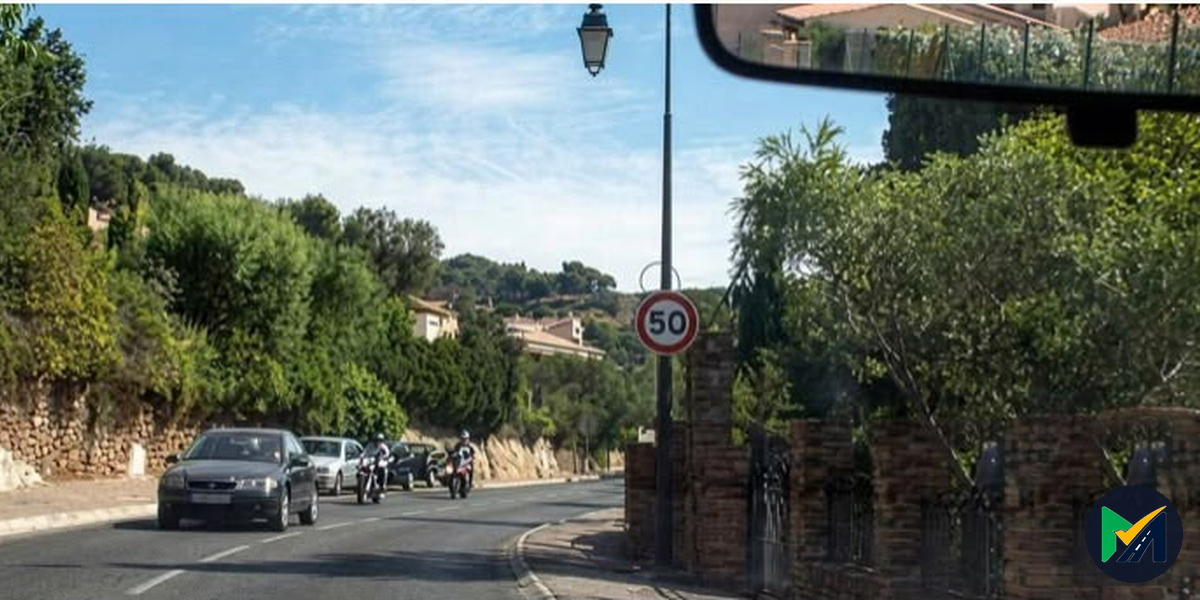
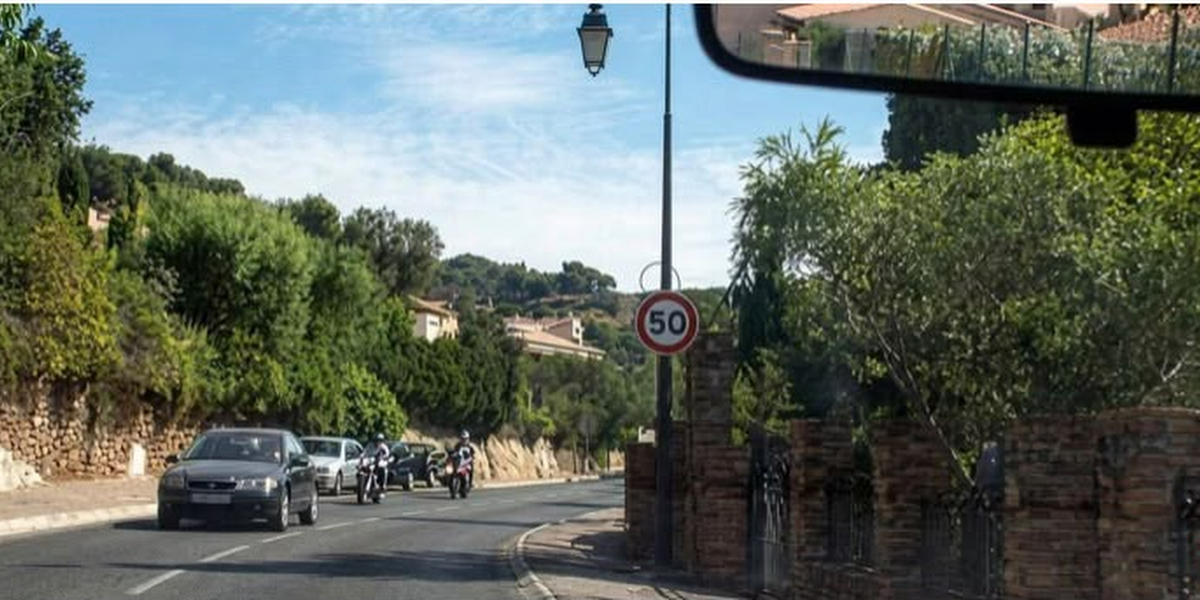
Ajouter les images chapitre 11 (Q13–34) sans filigrane.
Branche les nouvelles situations en 2:1 dans les banques et catalogues, et bump le cache média.

Changed region(s): [[0.8633, 0.72, 1.0, 0.99]]

diff --git a/src/data/codeRoute/imageUrls.ts b/src/data/codeRoute/imageUrls.ts
@@ -99,6 +99,28 @@ import img11_9 from '../../assets/code-images/chapitre-11/9.png?url'
 import img11_10 from '../../assets/code-images/chapitre-11/10.png?url'
 import img11_11 from '../../assets/code-images/chapitre-11/11.png?url'
 import img11_12 from '../../assets/code-images/chapitre-11/12.png?url'
+import img11_34 from '../../assets/code-images/chapitre-11/34.png?url'
+import img11_33 from '../../assets/code-images/chapitre-11/33.png?url'
+import img11_32 from '../../assets/code-images/chapitre-11/32.png?url'
+import img11_31 from '../../assets/code-images/chapitre-11/31.png?url'
+import img11_30 from '../../assets/code-images/chapitre-11/30.png?url'
+import img11_29 from '../../assets/code-images/chapitre-11/29.png?url'
+import img11_28 from '../../assets/code-images/chapitre-11/28.png?url'
+import img11_27 from '../../assets/code-images/chapitre-11/27.png?url'
+import img11_26 from '../../assets/code-images/chapitre-11/26.png?url'
+import img11_25 from '../../assets/code-images/chapitre-11/25.png?url'
+import img11_24 from '../../assets/code-images/chapitre-11/24.png?url'
+import img11_23 from '../../assets/code-images/chapitre-11/23.png?url'
+import img11_22 from '../../assets/code-images/chapitre-11/22.png?url'
+import img11_21 from '../../assets/code-images/chapitre-11/21.png?url'
+import img11_20 from '../../assets/code-images/chapitre-11/20.png?url'
+import img11_19 from '../../assets/code-images/chapitre-11/19.png?url'
+import img11_18 from '../../assets/code-images/chapitre-11/18.png?url'
+import img11_17 from '../../assets/code-images/chapitre-11/17.png?url'
+import img11_16 from '../../assets/code-images/chapitre-11/16.png?url'
+import img11_15 from '../../assets/code-images/chapitre-11/15.png?url'
+import img11_14 from '../../assets/code-images/chapitre-11/14.png?url'
+import img11_13 from '../../assets/code-images/chapitre-11/13.png?url'
 import img15_1 from '../../assets/code-images/chapitre-15/1.png?url'
 import img15_2 from '../../assets/code-images/chapitre-15/2.png?url'
 import img15_3 from '../../assets/code-images/chapitre-15/3.png?url'
@@ -223,6 +245,28 @@ const MAP: Record<number, Record<number, string>> = {
     10: img11_10,
     11: img11_11,
     12: img11_12,
+    13: img11_13,
+    14: img11_14,
+    15: img11_15,
+    16: img11_16,
+    17: img11_17,
+    18: img11_18,
+    19: img11_19,
+    20: img11_20,
+    21: img11_21,
+    22: img11_22,
+    23: img11_23,
+    24: img11_24,
+    25: img11_25,
+    26: img11_26,
+    27: img11_27,
+    28: img11_28,
+    29: img11_29,
+    30: img11_30,
+    31: img11_31,
+    32: img11_32,
+    33: img11_33,
+    34: img11_34,
   },
   15: {
     1: img15_1,

diff --git a/mobile/src/data/codeRoute/banks.ts b/mobile/src/data/codeRoute/banks.ts
@@ -623,28 +623,28 @@ const CHAPITRE_11: LocalQuestion[] = [
   question(11, 10, ['A', 'B'], [], [10]),
   question(11, 11, ['A', 'B'], [], [11]),
   question(11, 12, ['A', 'B', 'C', 'D'], [], [12]),
-  question(11, 13, ['A', 'B'], []),
-  question(11, 14, ['A', 'B', 'C', 'D'], []),
-  question(11, 15, ['A', 'B', 'C', 'D'], []),
-  question(11, 16, ['A', 'B'], []),
-  question(11, 17, ['A', 'B'], []),
-  question(11, 18, ['A', 'B'], []),
-  question(11, 19, ['A', 'B'], []),
-  question(11, 20, ['A', 'B'], []),
-  question(11, 21, ['A', 'B', 'C', 'D'], []),
-  question(11, 22, ['A', 'B', 'C'], []),
-  question(11, 23, ['A', 'B', 'C', 'D'], []),
-  question(11, 24, ['A', 'B'], []),
-  question(11, 25, ['A', 'B', 'C', 'D'], ['A', 'D']),
-  question(11, 26, ['A', 'B', 'C', 'D'], []),
-  question(11, 27, ['A', 'B'], []),
-  question(11, 28, ['A', 'B', 'C'], []),
-  question(11, 29, ['A', 'B', 'C'], []),
-  question(11, 30, ['A', 'B'], []),
-  question(11, 31, ['A', 'B', 'C'], ['B']),
-  question(11, 32, ['A', 'B'], []),
-  question(11, 33, ['A', 'B'], []),
-  question(11, 34, ['A', 'B'], []),
+  question(11, 13, ['A', 'B'], [], [13]),
+  question(11, 14, ['A', 'B', 'C', 'D'], [], [14]),
+  question(11, 15, ['A', 'B', 'C', 'D'], [], [15]),
+  question(11, 16, ['A', 'B'], [], [16]),
+  question(11, 17, ['A', 'B'], [], [17]),
+  question(11, 18, ['A', 'B'], [], [18]),
+  question(11, 19, ['A', 'B'], [], [19]),
+  question(11, 20, ['A', 'B'], [], [20]),
+  question(11, 21, ['A', 'B', 'C', 'D'], [], [21]),
+  question(11, 22, ['A', 'B', 'C'], [], [22]),
+  question(11, 23, ['A', 'B', 'C', 'D'], [], [23]),
+  question(11, 24, ['A', 'B'], [], [24]),
+  question(11, 25, ['A', 'B', 'C', 'D'], ['A', 'D'], [25]),
+  question(11, 26, ['A', 'B', 'C', 'D'], [], [26]),
+  question(11, 27, ['A', 'B'], [], [27]),
+  question(11, 28, ['A', 'B', 'C'], [], [28]),
+  question(11, 29, ['A', 'B', 'C'], [], [29]),
+  question(11, 30, ['A', 'B'], [], [30]),
+  question(11, 31, ['A', 'B', 'C'], ['B'], [31]),
+  question(11, 32, ['A', 'B'], [], [32]),
+  question(11, 33, ['A', 'B'], [], [33]),
+  question(11, 34, ['A', 'B'], [], [34]),
   question(11, 35, ['A', 'B'], []),
   question(11, 36, ['A', 'B', 'C'], []),
   question(11, 37, ['A', 'B', 'C', 'D'], []),

diff --git a/src/data/codeRoute/banks.ts b/src/data/codeRoute/banks.ts
@@ -623,28 +623,28 @@ const CHAPITRE_11: LocalQuestion[] = [
   question(11, 10, ['A', 'B'], [], [10]),
   question(11, 11, ['A', 'B'], [], [11]),
   question(11, 12, ['A', 'B', 'C', 'D'], [], [12]),
-  question(11, 13, ['A', 'B'], []),
-  question(11, 14, ['A', 'B', 'C', 'D'], []),
-  question(11, 15, ['A', 'B', 'C', 'D'], []),
-  question(11, 16, ['A', 'B'], []),
-  question(11, 17, ['A', 'B'], []),
-  question(11, 18, ['A', 'B'], []),
-  question(11, 19, ['A', 'B'], []),
-  question(11, 20, ['A', 'B'], []),
-  question(11, 21, ['A', 'B', 'C', 'D'], []),
-  question(11, 22, ['A', 'B', 'C'], []),
-  question(11, 23, ['A', 'B', 'C', 'D'], []),
-  question(11, 24, ['A', 'B'], []),
-  question(11, 25, ['A', 'B', 'C', 'D'], ['A', 'D']),
-  question(11, 26, ['A', 'B', 'C', 'D'], []),
-  question(11, 27, ['A', 'B'], []),
-  question(11, 28, ['A', 'B', 'C'], []),
-  question(11, 29, ['A', 'B', 'C'], []),
-  question(11, 30, ['A', 'B'], []),
-  question(11, 31, ['A', 'B', 'C'], ['B']),
-  question(11, 32, ['A', 'B'], []),
-  question(11, 33, ['A', 'B'], []),
-  question(11, 34, ['A', 'B'], []),
+  question(11, 13, ['A', 'B'], [], [13]),
+  question(11, 14, ['A', 'B', 'C', 'D'], [], [14]),
+  question(11, 15, ['A', 'B', 'C', 'D'], [], [15]),
+  question(11, 16, ['A', 'B'], [], [16]),
+  question(11, 17, ['A', 'B'], [], [17]),
+  question(11, 18, ['A', 'B'], [], [18]),
+  question(11, 19, ['A', 'B'], [], [19]),
+  question(11, 20, ['A', 'B'], [], [20]),
+  question(11, 21, ['A', 'B', 'C', 'D'], [], [21]),
+  question(11, 22, ['A', 'B', 'C'], [], [22]),
+  question(11, 23, ['A', 'B', 'C', 'D'], [], [23]),
+  question(11, 24, ['A', 'B'], [], [24]),
+  question(11, 25, ['A', 'B', 'C', 'D'], ['A', 'D'], [25]),
+  question(11, 26, ['A', 'B', 'C', 'D'], [], [26]),
+  question(11, 27, ['A', 'B'], [], [27]),
+  question(11, 28, ['A', 'B', 'C'], [], [28]),
+  question(11, 29, ['A', 'B', 'C'], [], [29]),
+  question(11, 30, ['A', 'B'], [], [30]),
+  question(11, 31, ['A', 'B', 'C'], ['B'], [31]),
+  question(11, 32, ['A', 'B'], [], [32]),
+  question(11, 33, ['A', 'B'], [], [33]),
+  question(11, 34, ['A', 'B'], [], [34]),
   question(11, 35, ['A', 'B'], []),
   question(11, 36, ['A', 'B', 'C'], []),
   question(11, 37, ['A', 'B', 'C', 'D'], []),

diff --git a/mobile/src/data/codeRoute/imageAssets.ts b/mobile/src/data/codeRoute/imageAssets.ts
@@ -117,6 +117,28 @@ export const CODE_IMAGE_MODULES: Record<number, Record<number, number>> = {
     10: require('../../../assets/code-images/chapitre-11/10.png'),
     11: require('../../../assets/code-images/chapitre-11/11.png'),
     12: require('../../../assets/code-images/chapitre-11/12.png'),
+    13: require('../../../assets/code-images/chapitre-11/13.png'),
+    14: require('../../../assets/code-images/chapitre-11/14.png'),
+    15: require('../../../assets/code-images/chapitre-11/15.png'),
+    16: require('../../../assets/code-images/chapitre-11/16.png'),
+    17: require('../../../assets/code-images/chapitre-11/17.png'),
+    18: require('../../../assets/code-images/chapitre-11/18.png'),
+    19: require('../../../assets/code-images/chapitre-11/19.png'),
+    20: require('../../../assets/code-images/chapitre-11/20.png'),
+    21: require('../../../assets/code-images/chapitre-11/21.png'),
+    22: require('../../../assets/code-images/chapitre-11/22.png'),
+    23: require('../../../assets/code-images/chapitre-11/23.png'),
+    24: require('../../../assets/code-images/chapitre-11/24.png'),
+    25: require('../../../assets/code-images/chapitre-11/25.png'),
+    26: require('../../../assets/code-images/chapitre-11/26.png'),
+    27: require('../../../assets/code-images/chapitre-11/27.png'),
+    28: require('../../../assets/code-images/chapitre-11/28.png'),
+    29: require('../../../assets/code-images/chapitre-11/29.png'),
+    30: require('../../../assets/code-images/chapitre-11/30.png'),
+    31: require('../../../assets/code-images/chapitre-11/31.png'),
+    32: require('../../../assets/code-images/chapitre-11/32.png'),
+    33: require('../../../assets/code-images/chapitre-11/33.png'),
+    34: require('../../../assets/code-images/chapitre-11/34.png'),
   },
   15: {
     1: require('../../../assets/code-images/chapitre-15/1.png'),

diff --git a/server/src/data/hardcodedQuestions/chapitre11.js b/server/src/data/hardcodedQuestions/chapitre11.js
@@ -28,7 +28,7 @@ function imageUrl(n) {
 }
 
 /** Images disponibles (N.png = question N) — 1re partie. */
-const QUESTIONS_WITH_IMAGES = new Set([1, 2, 3, 4, 5, 6, 7, 8, 9, 10, 11, 12])
+const QUESTIONS_WITH_IMAGES = new Set([1, 2, 3, 4, 5, 6, 7, 8, 9, 10, 11, 12, 13, 14, 15, 16, 17, 18, 19, 20, 21, 22, 23, 24, 25, 26, 27, 28, 29, 30, 31, 32, 33, 34])
 
 function answers(questionIndex, letters, correctLetters) {
   const correct = new Set(correctLetters.map((l) => l.toUpperCase()))

diff --git a/server/src/data/hardcodedQuestions/serialize.js b/server/src/data/hardcodedQuestions/serialize.js
@@ -1,5 +1,5 @@
 /** Invalide le cache navigateur/CDN après un remplacement de MP3 au même chemin. */
-export const CODE_MEDIA_VERSION = '20260822a'
+export const CODE_MEDIA_VERSION = '20260822b'
 
 function versioned(url) {
   const value = String(url || '').trim()
